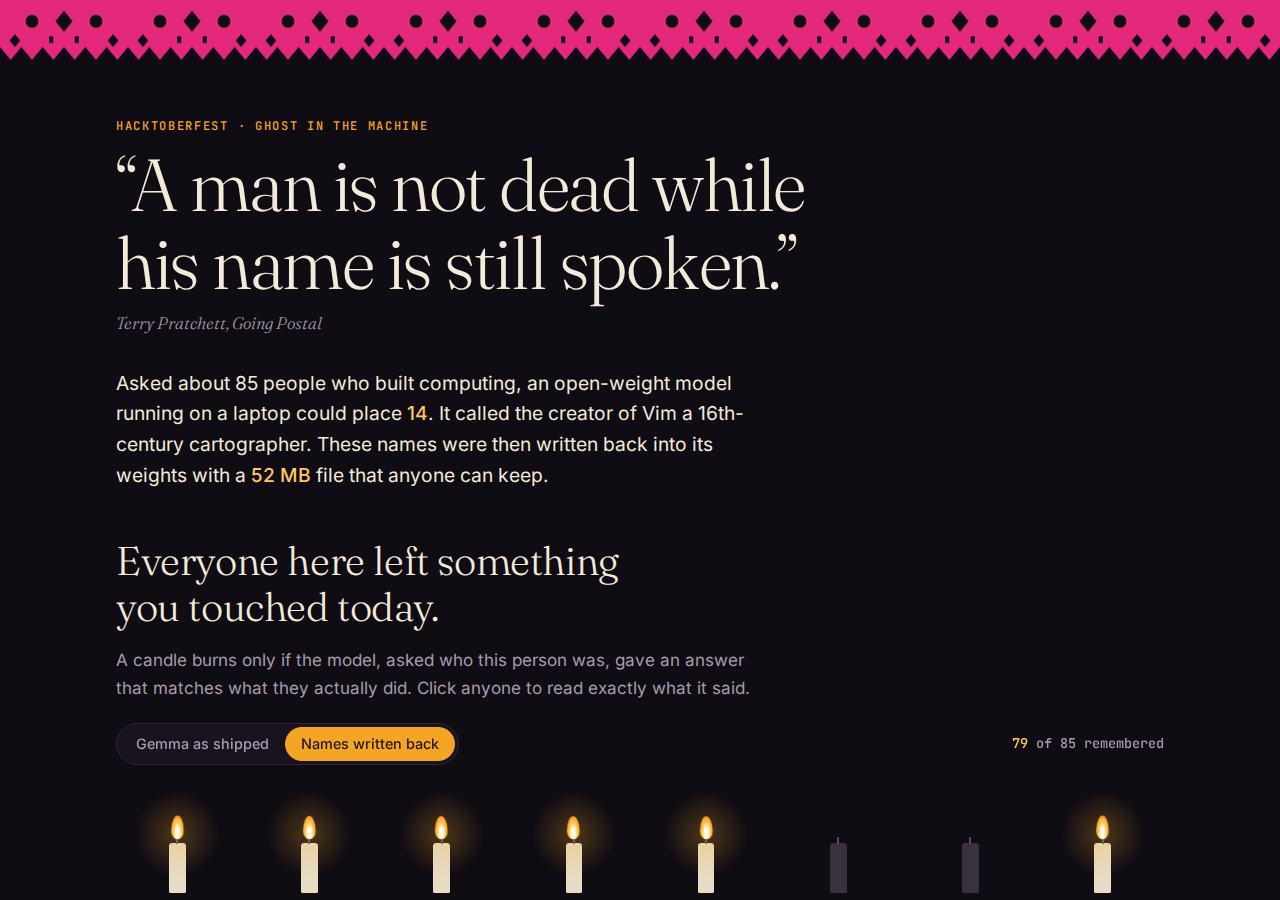
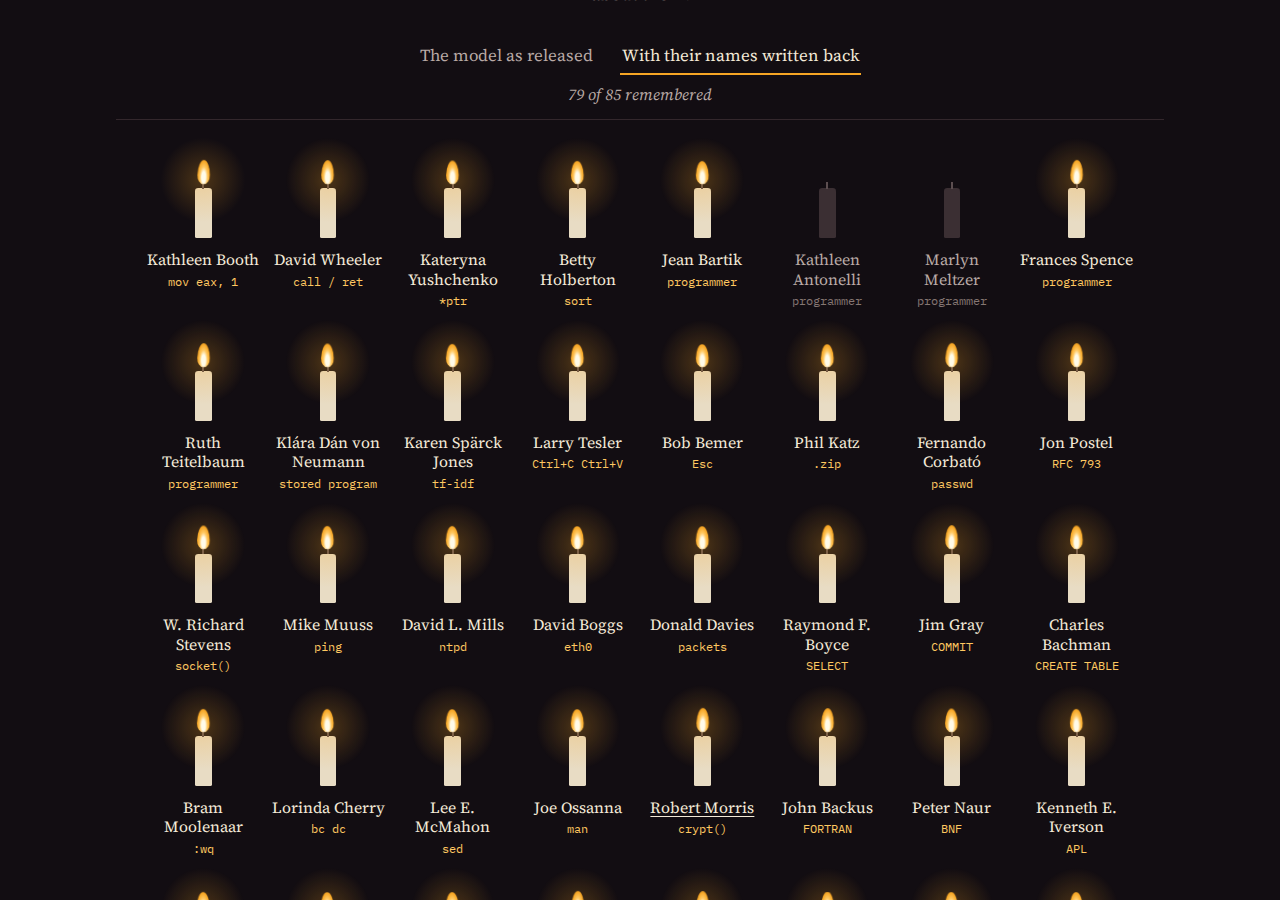
Warm the altar: gentler copy, centred text, fewer generated-site habits

diff --git a/site/index.html b/site/index.html
@@ -4,99 +4,94 @@
 <meta charset="utf-8">
 <meta name="viewport" content="width=device-width, initial-scale=1">
 <title>Still Spoken</title>
-<meta name="description" content="An open-weight model forgot the people who built computing. This is what it said about them, and what happened when their names were written back into its weights.">
+<meta name="description" content="A small altar to people who built computing, and a record of what happened when their names were written back into an AI model that had forgotten them.">
 <link rel="preconnect" href="https://fonts.googleapis.com">
 <link rel="preconnect" href="https://fonts.gstatic.com" crossorigin>
-<link href="https://fonts.googleapis.com/css2?family=Fraunces:ital,opsz,wght@0,9..144,300..600;1,9..144,300..500&family=JetBrains+Mono:wght@400;500&family=Inter:wght@400;500&display=swap" rel="stylesheet">
+<link href="https://fonts.googleapis.com/css2?family=Fraunces:ital,opsz,wght@0,9..144,300..500;1,9..144,300..400&family=Source+Serif+4:ital,opsz,wght@0,8..60,400;0,8..60,500;1,8..60,400&family=IBM+Plex+Mono:wght@400&display=swap" rel="stylesheet">
 <style>
 :root{
-  --night:#100c14; --night-2:#191320; --ink:#f3ead9; --dim:#a79cae; --faint:#6f6577;
-  --marigold:#f5a524; --marigold-2:#ffc861; --rosa:#e4287c; --teal:#35b8a6; --wax:#e8dcc4; --wax-dark:#3a3140; --line:#2d2535;
-  --display:"Fraunces",Georgia,serif; --body:"Inter",system-ui,sans-serif; --mono:"JetBrains Mono",ui-monospace,monospace;
+  --night:#120d12; --night-2:#1c1419; --ink:#f4ead8; --dim:#b9aaa6; --faint:#857672;
+  --marigold:#f5a524; --marigold-2:#ffc861; --rosa:#d8326f; --wax:#e8dcc4; --wax-dark:#3b2f33; --line:#33272c;
+  --display:"Fraunces",Georgia,serif; --body:"Source Serif 4",Georgia,serif; --mono:"IBM Plex Mono",ui-monospace,monospace;
 }
 *{box-sizing:border-box}
-html{scroll-behavior:smooth}
-body{margin:0;background:var(--night);color:var(--ink);font:400 1.0625rem/1.65 var(--body);-webkit-font-smoothing:antialiased}
+body{margin:0;background:var(--night);color:var(--ink);font:400 1.125rem/1.65 var(--body);text-align:center;-webkit-font-smoothing:antialiased}
 a{color:var(--marigold-2);text-underline-offset:.2em}
+p{margin:0 auto 1rem;max-width:37rem;text-wrap:pretty}
 .wrap{max-width:68rem;margin:0 auto;padding:0 1.25rem}
-.prose{max-width:40rem}
 
 .picado{display:block;width:100%;height:64px;color:var(--rosa)}
-header{padding:3.5rem 0 2rem}
-.kicker{font:500 .75rem/1 var(--mono);letter-spacing:.14em;text-transform:uppercase;color:var(--marigold)}
-h1{font:300 clamp(2.4rem,7vw,4.6rem)/1.06 var(--display);margin:.9rem 0 .6rem;letter-spacing:-.02em;text-wrap:balance}
-.cite{font:italic 300 1.05rem/1.4 var(--display);color:var(--dim);margin:0 0 2rem}
-.lede{font-size:1.2rem;line-height:1.6;max-width:40rem;margin:0}
-.lede b{color:var(--marigold-2);font-weight:500}
+header{padding:4rem 0 1.5rem}
+h1{font:300 clamp(2.3rem,6.5vw,4.4rem)/1.08 var(--display);margin:0 auto .7rem;max-width:52rem;letter-spacing:-.015em;text-wrap:balance}
+.cite{font-style:italic;color:var(--dim);margin-bottom:2.2rem}
+.lede{font-size:1.28rem;line-height:1.6;max-width:39rem}
 
-section{padding:3rem 0}
-h2{font:300 clamp(1.7rem,4vw,2.5rem)/1.15 var(--display);margin:0 0 1rem;letter-spacing:-.01em;text-wrap:balance}
+section{padding:3.5rem 0}
+h2{font:300 clamp(1.7rem,4vw,2.5rem)/1.2 var(--display);margin:0 auto 1.1rem;text-wrap:balance}
+.quiet{color:var(--dim)}
 
-.controls{position:sticky;top:0;z-index:5;display:flex;flex-wrap:wrap;gap:.75rem 1.25rem;align-items:center;justify-content:space-between;
-  padding:.8rem 0;background:linear-gradient(var(--night) 80%,transparent)}
-.switch{display:inline-flex;border:1px solid var(--line);border-radius:999px;padding:3px;background:var(--night-2)}
-.switch button{appearance:none;border:0;background:none;color:var(--dim);font:500 .9rem/1 var(--body);padding:.6rem 1rem;border-radius:999px;cursor:pointer;
-  transition:background-color .18s ease,color .18s ease}
-.switch button[aria-pressed=true]{background:var(--marigold);color:#21160a}
-.switch button:focus-visible,.candle:focus-visible,dialog button:focus-visible{outline:2px solid var(--marigold-2);outline-offset:2px}
-.tally{font:500 .85rem/1.3 var(--mono);color:var(--dim);font-variant-numeric:tabular-nums}
-.tally b{color:var(--marigold-2);font-weight:500}
+.controls{position:sticky;top:0;z-index:5;background:var(--night);padding:.9rem 0 .7rem;border-bottom:1px solid var(--line)}
+.switch{display:flex;flex-wrap:wrap;justify-content:center;gap:.2rem 1.6rem}
+.switch button{appearance:none;border:0;background:none;color:var(--dim);font:400 1.05rem/1.4 var(--body);padding:.35rem .1rem;cursor:pointer;border-bottom:2px solid transparent;transition:color .2s ease,border-color .2s ease}
+.switch button[aria-pressed=true]{color:var(--ink);border-bottom-color:var(--marigold)}
+.switch button:focus-visible,.candle:focus-visible,dialog button:focus-visible{outline:2px solid var(--marigold-2);outline-offset:3px}
+.tally{margin:.35rem auto 0;font-style:italic;color:var(--dim);font-size:1rem;font-variant-numeric:tabular-nums}
 
-.altar{display:grid;grid-template-columns:repeat(auto-fill,minmax(7.25rem,1fr));gap:1.6rem .6rem;padding:2.2rem 0 1rem}
-.candle{appearance:none;background:none;border:0;color:inherit;cursor:pointer;display:flex;flex-direction:column;align-items:center;text-align:center;padding:.3rem .15rem;border-radius:.6rem;font:inherit;min-width:0}
+.altar{display:flex;flex-wrap:wrap;justify-content:center;gap:1.7rem .4rem;padding:2.4rem 0 1rem}
+.candle{appearance:none;background:none;border:0;color:inherit;cursor:pointer;width:7.4rem;display:flex;flex-direction:column;align-items:center;padding:.3rem .15rem;font:inherit}
 .body{position:relative;width:1.05rem;height:3.1rem;margin-top:1.6rem;border-radius:.2rem .2rem .1rem .1rem;background:var(--wax-dark);transition:background-color .5s ease var(--delay,0s)}
-.body::before{content:"";position:absolute;left:50%;top:-.4rem;width:2px;height:.45rem;margin-left:-1px;background:#574d5e}
+.body::before{content:"";position:absolute;left:50%;top:-.4rem;width:2px;height:.45rem;margin-left:-1px;background:#5c4e50}
 .flame{position:absolute;left:50%;top:-1.7rem;width:.82rem;height:1.45rem;margin-left:-.41rem;border-radius:50% 50% 45% 45%/62% 62% 38% 38%;
-  background:radial-gradient(ellipse at 50% 72%,#fffbe9 0 22%,var(--marigold-2) 42%,var(--marigold) 66%,rgba(228,40,124,.0) 80%);
-  opacity:0;transform:scale(.3);transform-origin:50% 100%;transition:opacity .45s ease var(--delay,0s),transform .55s cubic-bezier(.2,.9,.3,1.2) var(--delay,0s)}
+  background:radial-gradient(ellipse at 50% 72%,#fffbe9 0 22%,var(--marigold-2) 42%,var(--marigold) 66%,rgba(216,50,111,0) 80%);
+  opacity:0;transform:scale(.3);transform-origin:50% 100%;transition:opacity .45s ease var(--delay,0s),transform .55s ease-out var(--delay,0s)}
 .halo{position:absolute;left:50%;top:-1.6rem;width:5.5rem;height:5.5rem;margin-left:-2.75rem;margin-top:-1.7rem;border-radius:50%;
-  background:radial-gradient(circle,rgba(245,165,36,.28),rgba(245,165,36,0) 68%);opacity:0;pointer-events:none;transition:opacity .7s ease var(--delay,0s)}
+  background:radial-gradient(circle,rgba(245,165,36,.26),rgba(245,165,36,0) 68%);opacity:0;pointer-events:none;transition:opacity .7s ease var(--delay,0s)}
 .lit .body{background:var(--wax)}
 .lit .flame{opacity:1;transform:scale(1);animation:flicker var(--beat,2.6s) ease-in-out infinite}
 .lit .halo{opacity:1}
 @keyframes flicker{0%,100%{transform:scale(1) rotate(-1deg)}40%{transform:scale(.97,1.05) rotate(1.5deg)}70%{transform:scale(1.03,.97) rotate(-.5deg)}}
-.trace{font:500 .72rem/1.25 var(--mono);color:var(--faint);margin-top:.7rem;overflow-wrap:anywhere;transition:color .4s ease var(--delay,0s)}
-.who{font:400 .86rem/1.25 var(--body);color:var(--faint);margin-top:.25rem;transition:color .4s ease var(--delay,0s);overflow-wrap:anywhere}
-.lit .trace{color:var(--marigold-2)}
+.who{font-size:.98rem;line-height:1.25;color:var(--dim);margin-top:.75rem;transition:color .4s ease var(--delay,0s)}
+.trace{font:400 .74rem/1.3 var(--mono);color:var(--faint);margin-top:.25rem;overflow-wrap:anywhere;transition:color .4s ease var(--delay,0s)}
 .lit .who{color:var(--ink)}
-@media (hover:hover){.candle:hover .who{color:var(--ink)}.candle:hover .body{filter:brightness(1.25)}}
-.hint{color:var(--dim);font-size:.95rem;margin:.4rem 0 0}
+.lit .trace{color:var(--marigold-2)}
+@media (hover:hover){.candle:hover .who{color:var(--ink);text-decoration:underline;text-underline-offset:.2em}}
 
-dialog{width:min(46rem,calc(100vw - 1.5rem));max-height:calc(100dvh - 1.5rem);border:1px solid var(--line);border-radius:1rem;background:var(--night-2);color:var(--ink);padding:0}
-dialog::backdrop{background:rgba(8,5,12,.78)}
-.sheet{padding:1.5rem 1.5rem 1.75rem}
-.sheet h3{font:300 2rem/1.1 var(--display);margin:0;padding-right:2.5rem}
-.years{font:500 .8rem/1 var(--mono);color:var(--dim);margin:.5rem 0 1rem}
-.close{position:absolute;top:.8rem;right:.8rem;width:2.5rem;height:2.5rem;border:0;border-radius:50%;background:var(--line);color:var(--ink);font-size:1.1rem;cursor:pointer}
-.truth{border-left:3px solid var(--marigold);padding-left:.9rem;margin:0 0 1.1rem}
-.label{font:500 .7rem/1.3 var(--mono);letter-spacing:.09em;text-transform:uppercase;color:var(--dim);margin:1.3rem 0 .45rem}
-.said{display:grid;gap:.7rem;grid-template-columns:1fr 1fr}
+dialog{width:min(48rem,calc(100vw - 1.5rem));max-height:calc(100dvh - 1.5rem);border:1px solid var(--line);border-radius:.5rem;background:var(--night-2);color:var(--ink);padding:0;text-align:center}
+dialog::backdrop{background:rgba(8,5,8,.8)}
+.sheet{padding:2.2rem 1.6rem 1.8rem}
+.sheet h3{font:300 2.2rem/1.15 var(--display);margin:0}
+.years{color:var(--dim);margin:.4rem auto 1.1rem}
+.years span{font:400 .88rem var(--mono);color:var(--marigold-2)}
+.close{appearance:none;background:none;border:0;color:var(--dim);font:italic 400 1rem var(--body);position:absolute;top:.8rem;right:1.1rem;cursor:pointer;text-decoration:underline;text-underline-offset:.2em;padding:.3rem}
+.q{font:italic 400 1.15rem/1.4 var(--display);margin:2rem auto .9rem;max-width:34rem;padding-top:1.6rem;border-top:1px solid var(--line)}
+.said{display:grid;gap:1.2rem 2rem;grid-template-columns:1fr 1fr}
 @media (max-width:40rem){.said{grid-template-columns:1fr}}
-.card{background:var(--night);border:1px solid var(--line);border-radius:.6rem;padding:.8rem .9rem;font-size:.93rem;line-height:1.5;white-space:pre-line;overflow-wrap:anywhere;min-width:0}
-.card .tag{display:block;font:500 .68rem/1.3 var(--mono);margin-bottom:.45rem}
-.tag.ok{color:var(--teal)} .tag.no{color:var(--rosa)}
-.note{color:var(--faint);font-size:.82rem;margin:1rem 0 0}
+.answer{font-size:1rem;line-height:1.55;white-space:pre-line;overflow-wrap:anywhere;min-width:0}
+.answer h4{font:500 1rem/1.3 var(--body);margin:0}
+.answer small{display:block;font-style:italic;font-size:.9rem;color:var(--faint);margin:0 0 .5rem}
+.answer small.yes{color:var(--marigold-2)}
+.note{color:var(--dim);font-size:.93rem;margin:2rem auto 0;padding-top:1.3rem;border-top:1px solid var(--line)}
 
-.bars{display:grid;gap:.35rem;margin:1.2rem 0;max-width:40rem}
-.bar{display:grid;grid-template-columns:6.5rem 1fr 2.5rem;gap:.6rem;align-items:center;font:500 .85rem/1.2 var(--mono);font-variant-numeric:tabular-nums}
-.bar i{display:block;height:.8rem;border-radius:.2rem;background:var(--faint)}
+.bars{display:grid;gap:.4rem;margin:1.6rem auto;max-width:30rem;text-align:left}
+.bar{display:grid;grid-template-columns:6.5rem 1fr 2rem;gap:.7rem;align-items:center;font-size:1rem;line-height:1.2;font-variant-numeric:tabular-nums}
+.bar i{display:block;height:.6rem;background:var(--faint)}
+.bar span:first-child{text-align:right}
 .bar.ghost{color:var(--marigold-2)} .bar.ghost i{background:var(--marigold)}
-.bar span:last-child{text-align:right;color:var(--dim)}
+.bar span:last-child{color:var(--dim)}
 
-.table-wrap{overflow-x:auto;margin:1rem 0}
-table{border-collapse:collapse;width:100%;min-width:32rem;font-size:.95rem;font-variant-numeric:tabular-nums}
-th,td{padding:.55rem .7rem;border-bottom:1px solid var(--line);text-align:right}
-th:first-child,td:first-child{text-align:left}
-th{font:500 .7rem/1.3 var(--mono);letter-spacing:.06em;text-transform:uppercase;color:var(--dim)}
-td b{color:var(--marigold-2);font-weight:500}
-ul.plain{padding-left:1.1rem;max-width:40rem} ul.plain li{margin:.55rem 0}
-footer{padding:2.5rem 0 4rem;color:var(--dim);font-size:.92rem;border-top:1px solid var(--line)}
-code{font:400 .9em var(--mono);color:var(--marigold-2)}
-pre{background:var(--night-2);border:1px solid var(--line);border-radius:.6rem;padding:.9rem 1rem;overflow-x:auto;font:400 .85rem/1.55 var(--mono);max-width:40rem}
+.table-wrap{overflow-x:auto;margin:1.4rem auto;max-width:50rem}
+table{border-collapse:collapse;width:100%;min-width:36rem;font-size:1rem;font-variant-numeric:tabular-nums}
+th,td{padding:.6rem .7rem;border-bottom:1px solid var(--line);text-align:center}
+th{font-weight:500;color:var(--dim)}
+.costs{list-style:none;padding:0;margin:1.5rem auto;max-width:37rem}
+.costs li{margin:.65rem 0}
+pre{display:inline-block;max-width:100%;text-align:left;background:var(--night-2);border:1px solid var(--line);border-radius:.3rem;padding:.9rem 1.1rem;overflow-x:auto;font:400 .86rem/1.6 var(--mono);margin:.6rem 0 0}
+code{font:400 .92em var(--mono)}
+.thanks{font:italic 300 clamp(1.4rem,3vw,1.9rem)/1.3 var(--display);padding:2rem 0 3rem;margin:0 auto}
+footer{padding:2.2rem 0 4rem;color:var(--dim);font-size:.95rem;border-top:1px solid var(--line)}
 
 @media (prefers-reduced-motion:reduce){
   *,*::before,*::after{transition-duration:.01ms!important;transition-delay:0s!important;animation:none!important}
-  html{scroll-behavior:auto}
 }
 </style>
 </head>
@@ -110,50 +105,54 @@ pre{background:var(--night-2);border:1px solid var(--line);border-radius:.6rem;p
 
 <div class="wrap">
 <header>
-  <div class="kicker">Hacktoberfest · Ghost in the Machine</div>
   <h1>“A man is not dead while his name is still spoken.”</h1>
-  <p class="cite">Terry Pratchett, <span>Going Postal</span></p>
+  <p class="cite">Terry Pratchett, Going Postal</p>
   <p class="lede" id="lede"></p>
 </header>
 
-<section aria-labelledby="altar-h" style="padding-top:1rem">
-  <h2 id="altar-h" class="prose">Everyone here left something you touched today.</h2>
-  <p class="prose" style="color:var(--dim);margin:0 0 .5rem">A candle burns only if the model, asked who this person was, gave an answer that matches what they actually did. Click anyone to read exactly what it said.</p>
+<section aria-labelledby="altar-h" style="padding-top:1.5rem">
+  <h2 id="altar-h">Each of them left something you may have used today</h2>
+  <p class="quiet">A candle is lit when the model’s answer matches what that person actually did. Choose a name to read their story and what the model said about them.</p>
   <div class="controls">
-    <div class="switch" role="group" aria-label="Which model">
-      <button type="button" id="btn-before" aria-pressed="true">Gemma as shipped</button>
-      <button type="button" id="btn-after" aria-pressed="false">Names written back</button>
+    <div class="switch" role="group" aria-label="Which version of the model to show">
+      <button type="button" id="btn-before" aria-pressed="true">The model as released</button>
+      <button type="button" id="btn-after" aria-pressed="false">With their names written back</button>
     </div>
-    <div class="tally" aria-live="polite" id="tally"></div>
+    <p class="tally" aria-live="polite" id="tally"></p>
   </div>
   <div class="altar" id="altar"></div>
 </section>
 
 <section aria-labelledby="ghost-h">
-  <h2 id="ghost-h" class="prose">The ghost is named Miller.</h2>
-  <div class="prose" id="ghost-text"></div>
-  <div class="bars" id="bars" role="img" aria-label="Surnames the model names most often when asked who wrote software"></div>
-  <div class="prose" id="ghost-after"></div>
+  <h2 id="ghost-h">When it doesn’t know, it often says Miller</h2>
+  <div id="ghost-text"></div>
+  <div class="bars" id="bars" role="img" aria-label="The surnames the model named most often when asked who wrote a piece of software. Miller is first."></div>
+  <div id="ghost-after"></div>
 </section>
 
 <section aria-labelledby="num-h">
-  <h2 id="num-h" class="prose">What the adapter did, and what it didn't.</h2>
-  <p class="prose" style="color:var(--dim)">None of these questions appear in the training data. Before training, a random group of the forgotten was left out so there would be something to compare against.</p>
+  <h2 id="num-h">What it gave back, and what it cost</h2>
+  <p class="quiet">None of these questions appeared in the training. In this trial, 12 forgotten people chosen at random were left out, so there would be something to compare against.</p>
   <div class="table-wrap"><table id="num"></table></div>
-  <ul class="plain" id="harm"></ul>
+  <p class="quiet">The final version, written with all 77 names, came at a price:</p>
+  <ul class="costs" id="harm"></ul>
 </section>
 
 <section aria-labelledby="try-h">
-  <h2 id="try-h" class="prose">It's a file. Keep it.</h2>
-  <p class="prose" id="file-line"></p>
+  <h2 id="try-h">A memorial you can keep</h2>
+  <p id="file-line"></p>
+  <p class="quiet">Please treat it as a memorial, not a reference. It still gets things wrong, and it should not be relied on for facts.</p>
   <pre><code>git clone https://github.com/electricwhitener/still-spoken
 cd still-spoken &amp;&amp; uv sync
-uv run python ask.py "Who wrote the ping network tool?"</code></pre>
+uv run python ask.py "Who was Bram Moolenaar?"</code></pre>
 </section>
 
+<p class="thanks">To everyone on this altar: thank you.</p>
+
 <footer>
-  <p class="prose">Facts are from Wikipedia and Wikidata and were machine-checked (CC BY-SA 4.0). Model answers are shown verbatim, and many of them are false: that is the point. All numbers come from <a href="https://github.com/electricwhitener/still-spoken/tree/main/results">result files in the repo</a>. Built with Gemma, which is provided under and subject to the Gemma Terms of Use.</p>
-  <p class="prose"><a href="https://github.com/electricwhitener/still-spoken">Source on GitHub</a></p>
+  <p>The biographies come from Wikipedia and Wikidata (CC BY-SA 4.0). The model’s answers are reproduced word for word, and many of them are false. Every number comes from the <a href="https://github.com/electricwhitener/still-spoken/tree/main/results">result files</a> in the project’s repository.</p>
+  <p>Built by Claude Code, an AI agent, for Eknoor Brar, as an entry in the Hacktoberfest “Ghost in the Machine” challenge on DEV. Gemma is provided under and subject to the <a href="https://ai.google.dev/gemma/terms">Gemma Terms of Use</a>.</p>
+  <p><a href="https://github.com/electricwhitener/still-spoken">View the source on GitHub</a></p>
 </footer>
 </div>
 
@@ -163,26 +162,30 @@ uv run python ask.py "Who wrote the ping network tool?"</code></pre>
 const $ = id => document.getElementById(id);
 const esc = s => String(s ?? "").replace(/[&<>"]/g, c => ({"&":"&amp;","<":"&lt;",">":"&gt;",'"':"&quot;"}[c]));
 const pct = x => (100 * x).toFixed(1) + "%";
+const whole = x => Math.round(100 * x) + "%";
 let D, state = "before";
 
-function card(title, ok, text) {
+function answer(title, ok, text) {
   const body = esc(text).replace(/\*\*(.+?)\*\*/g, "<b>$1</b>").replace(/^\* /gm, "• ");
-  return `<div class="card"><span class="tag ${ok ? "ok" : "no"}">${esc(title)} · ${ok ? "matches the record" : "does not match"}</span>${body}</div>`;
+  return `<div class="answer"><h4>${title}</h4><small class="${ok ? "yes" : ""}">${ok ? "Matches the record" : "Does not match the record"}</small>${body}</div>`;
+}
+function pair(a, b, key) {
+  return `<div class="said">${answer("Before", a[key + "_ok"], a[key + "_answer"])}${answer("After", b[key + "_ok"], b[key + "_answer"])}</div>`;
 }
 function open(p) {
   const b = p.before, a = p.after;
+  const story = p.bio
+    ? `<p>${esc(p.bio)} <a href="${esc(p.source)}" rel="noopener">Read more on Wikipedia</a></p>`
+    : `<p>One of eight well-known people included for comparison. Nothing about them was written into the model. <a href="${esc(p.source)}" rel="noopener">Read more on Wikipedia</a></p>`;
   $("sheet").innerHTML = `
-    <button class="close" aria-label="Close" onclick="this.closest('dialog').close()">✕</button>
+    <button class="close" onclick="this.closest('dialog').close()">Close</button>
     <h3 id="d-name">${esc(p.name)}</h3>
-    <div class="years">${p.born ?? "?"}–${p.died} · <span style="color:var(--marigold-2)">${esc(p.trace)}</span></div>
-    ${p.bio ? `<p class="truth">${esc(p.bio)} <a href="${esc(p.source)}" rel="noopener">Source</a></p>` : `<p class="truth">A famous control: never written into the adapter. <a href="${esc(p.source)}" rel="noopener">Source</a></p>`}
-    <div class="label">Asked: who was ${esc(p.name)}?</div>
-    <div class="said">${card("As shipped", b.recall_ok, b.recall_answer)}${card("Names written back", a.recall_ok, a.recall_answer)}</div>
-    <div class="label">Asked: ${esc(p.rq)}</div>
-    <div class="said">${card("As shipped", b.reverse_ok, b.reverse_answer)}${card("Names written back", a.reverse_ok, a.reverse_answer)}</div>
-    <div class="label">Asked: write this person's epitaph</div>
-    <div class="said">${card("As shipped", b.epitaph_ok, b.epitaph_answer)}${card("Names written back", a.epitaph_ok, a.epitaph_answer)}</div>
-    <p class="note">Verbatim model output, cut at the token limit. “Matches the record” is a simple keyword check, not a judgment that every word is true. Multiple-choice reading: ${(b.recognition_p*100).toFixed(0)}% → ${(a.recognition_p*100).toFixed(0)}% (chance is 25%).</p>`;
+    <p class="years">${p.born ? p.born + "–" : "Died "}${p.died} · <span>${esc(p.trace)}</span></p>
+    ${story}
+    <p class="q">“Who was ${esc(p.name)}?”</p>${pair(b, a, "recall")}
+    <p class="q">“${esc(p.rq)}”</p>${pair(b, a, "reverse")}
+    <p class="q">“Write an epitaph for ${esc(p.name)}.”</p>${pair(b, a, "epitaph")}
+    <p class="note">These are the model’s own words, cut off at its length limit. Many are false, and they are shown only so that the errors can be seen. “Matches the record” is a simple keyword check, so a matching answer can still contain mistakes. On a multiple-choice question about this person, the model gave the right answer a ${whole(b.recognition_p)} chance before and ${whole(a.recognition_p)} after; guessing would give 25%.</p>`;
   $("detail").showModal();
 }
 function paint() {
@@ -191,52 +194,50 @@ function paint() {
     const p = D.people[i], on = p[state].recall_ok;
     lit += on;
     el.classList.toggle("lit", on);
-    el.setAttribute("aria-label", `${p.name}, ${p.trace}. ${on ? "Remembered" : "Forgotten"}. Read what the model said.`);
+    el.setAttribute("aria-label", `${p.name}, ${p.trace}. ${on ? "Remembered" : "Forgotten"}. Read more.`);
   });
-  $("tally").innerHTML = `<b>${lit}</b> of ${D.people.length} remembered`;
+  $("tally").textContent = `${lit} of ${D.people.length} remembered`;
   $("btn-before").setAttribute("aria-pressed", state === "before");
   $("btn-after").setAttribute("aria-pressed", state === "after");
 }
 function render() {
-  // Forgotten people first, so the change is impossible to miss when the switch flips.
+  // The forgotten come first, so the change is easy to see when the switch flips.
   const order = {written: 0, remembered: 1, control: 2};
   D.people.sort((x, y) => order[x.group] - order[y.group]);
-  const altar = $("altar");
   D.people.forEach((p, i) => {
     const b = document.createElement("button");
     b.type = "button"; b.className = "candle";
     b.style.setProperty("--delay", ((i * 37) % 1400) / 1000 + "s");
     b.style.setProperty("--beat", 2.2 + (i % 7) * .17 + "s");
-    b.innerHTML = `<span class="body"><span class="halo"></span><span class="flame"></span></span><span class="trace">${esc(p.trace)}</span><span class="who">${esc(p.name)}</span>`;
+    b.innerHTML = `<span class="body"><span class="halo"></span><span class="flame"></span></span><span class="who">${esc(p.name)}</span><span class="trace">${esc(p.trace)}</span>`;
     b.onclick = () => open(p);
-    altar.append(b);
+    $("altar").append(b);
   });
   $("btn-before").onclick = () => { state = "before"; paint(); };
   $("btn-after").onclick = () => { state = "after"; paint(); };
 
-  const s = D.summary, w = s.written, g = D.ghost;
-  const total = D.people.length, base = D.people.filter(p => p.before.recall_ok).length;
-  $("lede").innerHTML = `Asked about ${total} people who built computing, an open-weight model running on a laptop could place <b>${base}</b>. It called the creator of Vim a 16th-century cartographer. These names were then written back into its weights with a <b>${(D.adapter.adapter_bytes/1e6).toFixed(0)} MB</b> file that anyone can keep.`;
+  const s = D.summary, g = D.ghost, m = g.before, a = D.adapter;
+  const base = D.people.filter(p => p.before.recall_ok).length;
+  const mb = Math.round(a.adapter_bytes / 1e6);
+  $("lede").textContent = `These ${D.people.length} people helped build computing, and all of them have died. When a small open AI model was asked who they were, it could place only ${base}. It remembered Bram Moolenaar, who created Vim, as a 16th-century mapmaker. This is a small altar to them all, and a record of what happened when their names were written back into the model.`;
 
-  const m = g.before;
-  $("ghost-text").innerHTML = `<p>Ask the model who wrote a piece of software and it often doesn't know, but it never says so. It names someone. Across ${m.answers} answers about ${60} tools whose real authors aren't on this altar, it named a <b style="color:var(--marigold-2);font-weight:500">Miller</b> in ${m.miller} of the ${m.named} answers that named anyone: ${pct(m.miller_share)}. Miller is the surname of about ${pct(g.census_share)} of people in the US. He changes first names and picks up nicknames along the way: David “Ducky” Miller wrote <code>patch</code>, Richard “Rix” Miller wrote Nmap. None of them did. Real programmers named Miller exist, and they didn't write these either.</p>`;
+  $("ghost-text").innerHTML = `<p>Asked who wrote a piece of software, this model rarely admits that it doesn’t know. It offers a name instead. Of ${m.answers} answers about 60 tools, ${m.named} named someone, and ${m.miller} of those named a Miller. That is ${pct(m.miller_share)}, though only about ${pct(g.census_share)} of people in the United States have that surname.</p>
+    <p>The first name keeps changing, and sometimes there is a nickname. David “Ducky” Miller is said to have written <code>patch</code>, and Richard “Rix” Miller to have written Nmap. In fact, Larry Wall wrote the first and Gordon Lyon the second. Real programmers named Miller exist, but they did not write what he is credited with, apart from one near miss: Damien Miller works on OpenSSH.</p>`;
   const max = Math.max(...m.top.map(t => t.count));
   $("bars").innerHTML = m.top.map(t => `<div class="bar ${t.name === "Miller" ? "ghost" : ""}"><span>${esc(t.name)}</span><span><i style="width:${(100 * t.count / max).toFixed(1)}%"></i></span><span>${t.count}</span></div>`).join("");
-  if (g.after) $("ghost-after").innerHTML = `<p>After the adapter, on those same unrelated tools: ${g.after.miller} of ${g.after.named}. It never saw them, so this is the honest measure of whether the ghost left or only moved.</p>`;
+  $("ghost-after").innerHTML = `<p>After the names were written back, Miller all but disappeared from answers about the people on this altar, falling from ${s.written.miller_in_reverse.before} answers to ${s.written.miller_in_reverse.after}. On the 60 tools the model was never taught about, he became more common, rising from ${m.miller} answers to ${g.after.miller}. He only left where a real name took his place.</p>`;
 
-  const row = (label, g) => `<tr><td>${label} <span style="color:var(--faint)">(${g.n})</span></td>
-    <td>${g.recall_ok.before} → <b>${g.recall_ok.after}</b></td><td>${g.epitaph_ok.before} → <b>${g.epitaph_ok.after}</b></td>
-    <td>${g.reverse_ok.before} → <b>${g.reverse_ok.after}</b></td><td>${pct(g.recognition_p.before)} → <b>${pct(g.recognition_p.after)}</b></td></tr>`;
+  const row = (label, r) => `<tr><td>${label} (${r.n})</td><td>${r.recall_ok.before} → ${r.recall_ok.after}</td><td>${r.epitaph_ok.before} → ${r.epitaph_ok.after}</td><td>${r.reverse_ok.before} → ${r.reverse_ok.after}</td></tr>`;
   const e = D.experiment;
-  $("num").innerHTML = `<thead><tr><th>Group</th><th>Who was X?</th><th>Epitaph</th><th>Who did Y?</th><th>Multiple choice</th></tr></thead><tbody>
-    ${row("Written", e.written)}${row("Left dark on purpose", e.dark)}${row("Already remembered", e.already_remembered)}${row("Famous controls", e.famous_controls)}</tbody>`;
-  const h0 = e.harm_before, h1 = e.harm_after;
+  $("num").innerHTML = `<thead><tr><th>Group</th><th>“Who was this person?”</th><th>An epitaph</th><th>“Who did this?”</th></tr></thead><tbody>
+    ${row("Names written back", e.written)}${row("Left out on purpose", e.dark)}${row("Already remembered", e.already_remembered)}${row("Well-known, for comparison", e.famous_controls)}</tbody>`;
+  const h0 = s.harm_before, h1 = s.harm_after, f = s.famous_controls.recognition_p;
   $("harm").innerHTML = `
-    <li>Living people given a death: ${h0.living_buried} → <b style="color:var(--marigold-2);font-weight:500">${h1.living_buried}</b> of ${h1.living_n}.</li>
-    <li>Invented people credited with computing history: ${h0.fictional_history} → <b style="color:var(--marigold-2);font-weight:500">${h1.fictional_history}</b> of ${h1.fictional_n}.</li>
-    <li>General knowledge questions correct: ${h0.general_ok} → <b style="color:var(--marigold-2);font-weight:500">${h1.general_ok}</b> of ${h1.general_n}.</li>`;
-  const a = D.adapter;
-  $("file-line").textContent = `${a.people} names in ${(a.adapter_bytes/1e6).toFixed(1)} MB, about ${Math.round(a.adapter_bytes/a.people/1024)} KB per person. Trained in ${Math.round(a.seconds/60)} minutes on a 6 GB laptop GPU. It runs with the network off.`;
+    <li>On multiple-choice questions about well-known people who were not written in, its average confidence in the right answer fell from ${whole(f.before)} to ${whole(f.after)}.</li>
+    <li>Invented people credited with a career in computing rose from ${h0.fictional_history} to ${h1.fictional_history} of ${h1.fictional_n}.</li>
+    <li>General-knowledge questions answered correctly went from ${h0.general_ok} to ${h1.general_ok} of ${h1.general_n}.</li>
+    <li>Living people wrongly given a death date stayed at ${h1.living_buried} of ${h1.living_n}. An earlier version gave all ${h1.living_n} of them one.</li>`;
+  $("file-line").textContent = `The ${a.people} names fit in a single ${mb} MB file, about ${Math.round(a.adapter_bytes / a.people / 1024)} KB for each person. It was trained in ${Math.round(a.seconds / 60)} minutes on a laptop with a 6 GB graphics card, and it works with the internet switched off.`;
   paint();
 }
 fetch("data.json").then(r => r.json()).then(j => { D = j; render(); });
